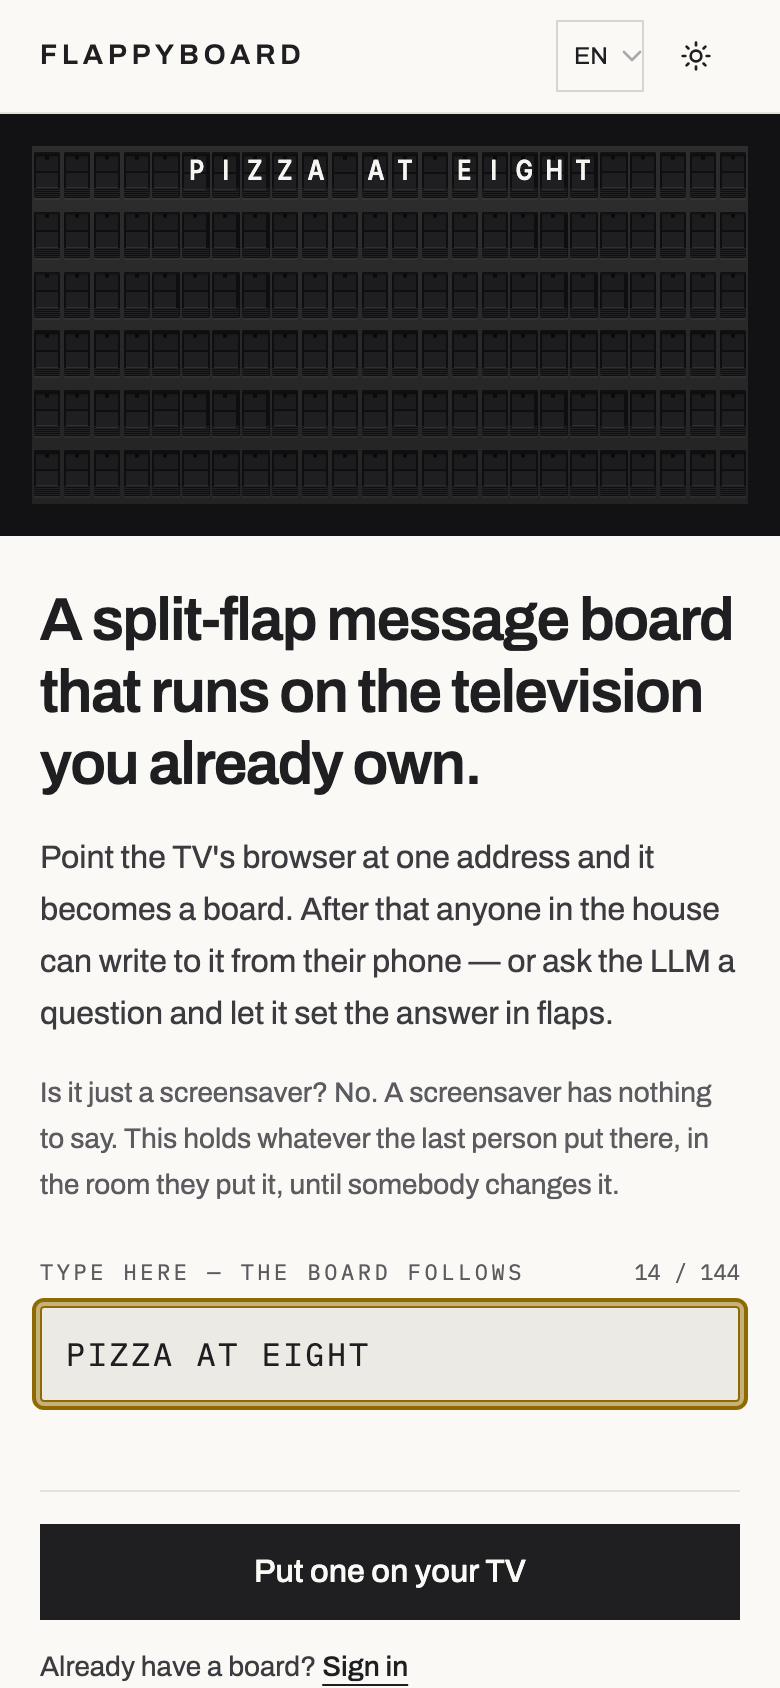
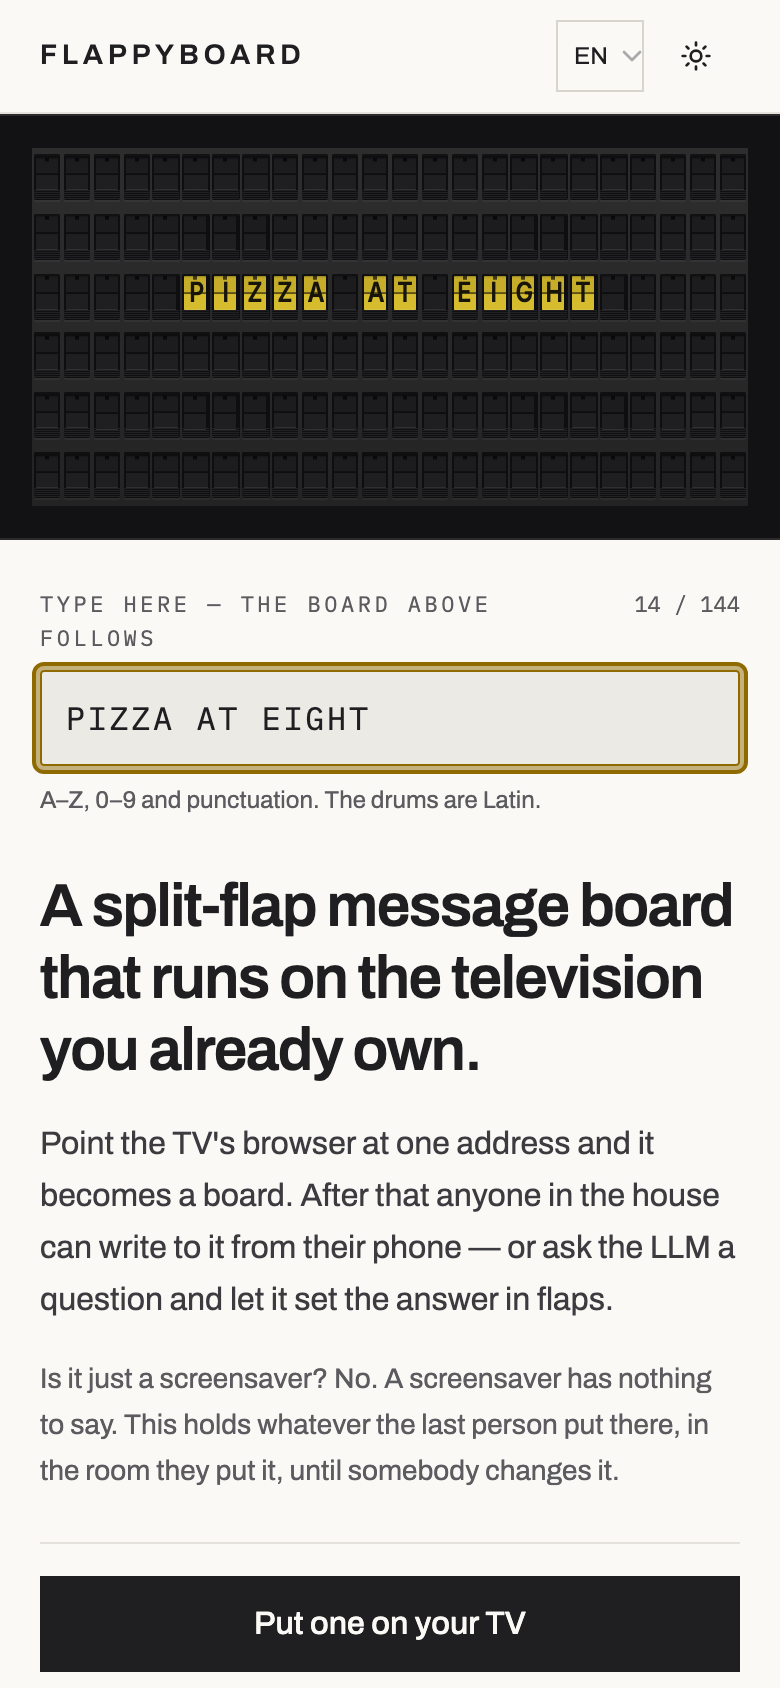
fix(front-door): answer design-critic's five P1s on the landing page
Round 1 returned DO NOT SHIP. All nine anti-slop tells passed — the page
failed because its own structural claim was the worst-executed thing on
it. Measured before and after, live, not inferred from classes.

P1-a  The typed state — the page's entire proof — was its ugliest frame.
      A visitor's line landed pinned to row 0 with five empty rows under
      it (83% dead tiles) in plain white, while the message that invited
      it was centred and lit. It now compiles twice: once to ask how many
      rows the text needs after wrapping, once to pad it to where the
      opening message sat. Painted in the invitation's own yellow — a
      visitor's words should not arrive dimmer than the words that asked
      for them.

P1-b  The control carrying the claim was the least visible thing on the
      fold: 1.42:1 boundary against paper, under WCAG 1.4.11's 3:1 floor,
      and the same defect class as /link's 1.15:1 field in phase 3. A
      faint well above a solid ink button is the email-capture pattern,
      so the page read as a hero with a newsletter box under it.
      Boundary is now --text-body-subtle: 6.32:1 light, 9.05:1 dark.

P1-c  On the primary viewport the board and the field could not be seen
      together — 385px apart, 46% of a 390x844 screen, so with a keyboard
      raised roughly 31pt of board remained. Reading order on a phone is
      now field, prose, CTA: 65px between board and field. The CTA is a
[…]

diff --git a/app/routes/home.tsx b/app/routes/home.tsx
@@ -201,8 +201,15 @@ export default function Home({ loaderData }: Route.ComponentProps) {
             #121214 with no restated hex anywhere. The board brings its own
             painted-metal mask, which lands a step lighter than the room: canvas →
             plate → flap well is the whole elevation story, no shadows.
+
+            `border-y` is not trim. Forcing the band dark is a no-op when the
+            **page** is already dark, so in dark mode the band measured 1.00:1
+            against the canvas — the full-bleed room that gives the object its
+            edge did not weaken, it vanished, and what was left was a grid
+            floating in undifferentiated black (`design-critic` round 1, P1-d).
+            The hairline is the enclosure that survives both themes.
           */}
-          <div className="dark bg-background px-4 py-4 sm:px-8 sm:py-8">
+          <div className="dark border-y border-border bg-background px-4 py-4 sm:px-8 sm:py-8">
             {/*
               The field is 2:1 by construction, so its height is half whatever
               width it is given. `min(100%, 78vh)` is the trade: wide enough that
@@ -222,15 +229,22 @@ export default function Home({ loaderData }: Route.ComponentProps) {
           </div>
 
           {/*
-            One column on a phone, two from `lg` up — and the split is not
-            decoration. Stacked, a laptop puts the text field below the fold, so
-            the page claims you can drive the board and then hides the thing you
-            drive it with. Side by side, the object, the sentence and the field
-            are in one viewport, which is the only arrangement that makes the
-            claim true.
+            Reading order on a phone: **field, then prose, then CTA.** On a
+            laptop: prose left, field and CTA right.
+
+            The phone order is not a preference. Board-then-prose-then-field put
+            385 px between the bottom of the object and the top of the control —
+            46% of a 390 × 844 viewport — so with a keyboard raised, holding the
+            field in view left about 31 pt of board on screen. The page's whole
+            claim is that you drive the board, and the two could not be seen
+            together at the moment you did it (`design-critic` round 1, P1-c).
+
+            The CTA still lands last and `mt-auto` still drops it to the bottom
+            of the first screen, so the primary *action* keeps its thumb position
+            while the *demonstration* moves up under the thing it demonstrates.
           */}
-          <div className="mx-auto flex w-full max-w-5xl flex-1 flex-col gap-6 px-5 pt-6 pb-8 sm:gap-8 sm:px-8 sm:pt-8 sm:pb-10 lg:flex-row lg:items-start lg:gap-14">
-            <div className="flex flex-col gap-4 lg:flex-1">
+          <div className="mx-auto flex w-full max-w-5xl flex-1 flex-col gap-6 px-5 pt-6 pb-8 sm:gap-8 sm:px-8 sm:pt-8 sm:pb-10 lg:grid lg:grid-cols-[1fr_26rem] lg:items-start lg:gap-x-14 lg:gap-y-6">
+            <div className="order-2 flex flex-col gap-4 lg:order-none lg:col-start-1 lg:row-span-2 lg:row-start-1">
               <h1 className="max-w-[22ch] text-3xl font-semibold tracking-tight text-balance text-text-heading sm:text-4xl">
                 {t("lede.title")}
               </h1>
@@ -242,13 +256,8 @@ export default function Home({ loaderData }: Route.ComponentProps) {
               </p>
             </div>
 
-            {/*
-              The controller. On a phone `mt-auto` drops the field and the CTA
-              into the bottom third of the first screen, where a thumb reaches
-              without the hand moving — the owner's standing constraint, which
-              outranks how the whitespace looks.
-            */}
-            <div className="mt-auto flex flex-col gap-4 lg:mt-0 lg:w-[26rem] lg:shrink-0">
+            {/* The controller — directly under the object on a phone. */}
+            <div className="order-1 flex flex-col gap-4 lg:order-none lg:col-start-2 lg:row-start-1">
               <div className="flex flex-col gap-2">
                 <div className="flex items-baseline justify-between gap-4">
                   <label
@@ -257,9 +266,16 @@ export default function Home({ loaderData }: Route.ComponentProps) {
                   >
                     {t("say.label")}
                   </label>
+                  {/*
+                    `shrink-0 whitespace-nowrap`: the counter is three tokens
+                    around a slash and must never be broken across lines. Once
+                    the label grew to name the object ("the board *above*
+                    follows") it wrapped on a phone and took "14 /" with it,
+                    leaving "144" stranded on the next line.
+                  */}
                   <span
                     id="landing-say-count"
-                    className="font-mono text-[11px] tabular-nums text-text-body-subtle"
+                    className="shrink-0 font-mono text-[11px] tabular-nums whitespace-nowrap text-text-body-subtle"
                   >
                     {t("say.counter", { used: typed.used, capacity: BOARD_CAPACITY })}
                   </span>
@@ -273,6 +289,17 @@ export default function Home({ loaderData }: Route.ComponentProps) {
 
                   `rounded-lg` resolves to `--radius` (2 px): the object is 0 px
                   on panels and buttons, 2 px on wells, and this is a well.
+
+                  **The boundary is `--text-body-subtle`, not `--input`.** At
+                  `--input` the well measured 1.14:1 fill and a 1.42:1 edge
+                  against paper — below WCAG 1.4.11's 3:1 floor for a control
+                  boundary, and the same defect class as `/link`'s 1.15:1 field
+                  in phase 3. `design-critic` round 1 (P1-b) put the consequence
+                  plainly: a faint grey well stacked above a solid ink button
+                  *is* the email-capture pattern, so the page read as a
+                  decorative hero with a newsletter box under it. A 6.32:1
+                  hairline is the fix that stays inside the language — the object
+                  draws edges, it does not draw shadows.
                 */}
                 <Input
                   id="landing-say"
@@ -285,18 +312,43 @@ export default function Home({ loaderData }: Route.ComponentProps) {
                   spellCheck={false}
                   aria-describedby="landing-say-count landing-say-hint"
                   data-testid="landing-say-input"
-                  className="h-12 rounded-lg border-input bg-input/40 px-3 font-mono text-base tracking-[0.08em] uppercase shadow-none"
+                  className="h-12 rounded-lg border-text-body-subtle bg-input/40 px-3 font-mono text-base tracking-[0.08em] uppercase shadow-none"
                 />
+                {/*
+                  The charset, said **before** the refusal rather than after it.
+
+                  A Chinese visitor was invited to type by a label and a
+                  placeholder in their own language and learned only on the
+                  rebound that the drums are Latin (`design-critic` round 1,
+                  P1-e). The runtime behaviour was already right — the board
+                  holds its last displayable message and announces why — but
+                  being told after you have been turned down is not the same as
+                  being told. Same voice as the hint: a property of the object,
+                  never an apology for it.
+
+                  It swaps out while a hint is showing, so the two never stack
+                  and the layout never jumps.
+                */}
                 <p
                   id="landing-say-hint"
                   aria-live="polite"
                   className="min-h-5 max-w-[60ch] text-xs leading-relaxed text-text-body-subtle"
                   data-testid="landing-say-hint"
                 >
-                  {hint}
+                  {hint || t("say.note")}
                 </p>
               </div>
 
+            </div>
+
+            {/*
+              `mt-auto` keeps the primary action in the bottom third of the first
+              screen on a phone, where a thumb reaches without the hand moving —
+              the owner's standing constraint, which outranks how the whitespace
+              looks. It is a separate element from the field precisely so the
+              field can move up under the board without dragging the CTA with it.
+            */}
+            <div className="order-3 mt-auto lg:order-none lg:col-start-2 lg:row-start-2 lg:mt-0">
               <div className="flex flex-col gap-2 border-t border-border pt-4 sm:flex-row sm:items-center sm:gap-6 sm:pt-5 lg:flex-col lg:items-start lg:gap-2">
                 <Button
                   asChild
@@ -335,18 +387,30 @@ export default function Home({ loaderData }: Route.ComponentProps) {
             <p className="max-w-[58ch] text-base leading-relaxed text-text-body">
               {t("tv.body")}
             </p>
-            <div className="mt-8 flex items-start gap-3">
-              {/*
-                The pilot lamp, and the only place `--signal` is spent on this
-                page. It carries no meaning colour alone has to hold: the label
-                beside it says what the address is for, and the lamp is hidden
-                from the accessibility tree rather than announced as decoration.
-              */}
-              <span
-                aria-hidden
-                className="mt-1.5 size-2.5 shrink-0 rounded-lg bg-signal"
-              />
-              <div className="flex min-w-0 flex-col gap-1.5">
+            {/*
+              There was a pilot lamp here — a 10 px `--signal` square before the
+              label — and it is gone on purpose.
+
+              `--signal` is two-valued: the real lamp amber in dark, and a
+              darkened #8f6a00 in light so the app-wide focus ring clears 4.5:1
+              on paper. That is the right call for a ring and the wrong one for a
+              lamp: at lightness 28% next to the board's own 51% yellow four
+              hundred pixels above, the page carried two unrelated yellows and
+              the "lit" instruction read as a bullet (`design-critic` round 1,
+              P2-a). A decorative dot that reads as a bullet is worse than no
+              dot, and the token's *value* is not negotiable — the ring depends
+              on it. So the mono label does the work instead.
+            */}
+            {/*
+              Full width, not a content-sized flex child. With the lamp gone
+              this is a single block, and the old `min-w-0` column sized itself
+              to its own text — so a real deployed host laid out at 864 px
+              inside a 306 px column and `break-all` never got the chance to
+              act. Proven by substituting a workers.dev hostname into the live
+              DOM; `localhost:5251/tv` is 17 characters and hides it.
+            */}
+            <div className="mt-8 w-full max-w-[58ch]">
+              <div className="flex w-full min-w-0 flex-col gap-1.5">
                 <span className="font-mono text-[11px] tracking-[0.16em] text-text-body-subtle uppercase">
                   {t("tv.label")}
                 </span>
@@ -376,9 +440,19 @@ export default function Home({ loaderData }: Route.ComponentProps) {
               <tbody>
                 {SPEC_ROWS.map((key) => (
                   <tr key={key} className="border-t border-border align-top">
+                    {/*
+                      `font-mono` on the label column, not just the values. The
+                      EP-133 borrow is carried by the *texture* of letterspaced
+                      mono caps; in the proportional face the column read as
+                      ordinary small text the moment the copy stopped being
+                      Latin (`design-critic` round 1, P2-d). Mono holds the
+                      register in English and gives the CJK labels a consistent
+                      rhythm that tracking alone cannot — CJK ignores
+                      letterspacing and has no case to raise.
+                    */}
                     <th
                       scope="row"
-                      className="w-[38%] py-3 pr-4 text-[11px] font-medium tracking-[0.14em] text-text-body-subtle uppercase sm:w-64"
+                      className="w-[38%] py-3 pr-4 font-mono text-[11px] font-medium tracking-[0.14em] text-text-body-subtle uppercase sm:w-64"
                     >
                       {t(`specs.rows.${key}.label`)}
                     </th>

diff --git a/app/lib/board/landing-board.ts b/app/lib/board/landing-board.ts
@@ -44,14 +44,26 @@ const OPENING_LINES: ReadonlyArray<readonly [text: string, color: BoardColor]> =
     ["GO ON. YOU DRIVE IT.", "white"],
   ];
 
+/**
+ * What a visitor's own line is painted in.
+ *
+ * The same yellow the invitation used, and that is the point: `design-critic`
+ * round 1 found the typed state arriving in plain white while the message that
+ * asked for it was lit, so the visitor's words rendered *dimmer* than the
+ * product's own. On the real object a writer picks the colour; here the board
+ * lights their line for them.
+ */
+const TYPED_COLOR: BoardColor = "yellow";
+
+/** A row of the message, not of the grid — the compiler turns one into the other. */
+const say = (text: string, color: BoardColor) => ({
+  align: "center" as const,
+  segments: [{ text, color }],
+});
+
 const centered = (
   lines: ReadonlyArray<readonly [string, BoardColor]>
-): BoardMessage => ({
-  rows: lines.map(([text, color]) => ({
-    align: "center" as const,
-    segments: [{ text, color }],
-  })),
-});
+): BoardMessage => ({ rows: lines.map(([text, color]) => say(text, color)) });
 
 /**
  * Module-level constants, not factories: the animator compares grid **identity**
@@ -82,6 +94,10 @@ export interface TypedBoard {
   readonly used: number;
 }
 
+/** How many grid rows a compiled message actually puts glyphs on. */
+const litRows = (grid: BoardGrid): number =>
+  grid.rows.filter((row) => row.some((cell) => cell.char !== " ")).length;
+
 /**
  * The typed text, as the board would show it.
  *
@@ -99,8 +115,33 @@ export const typedBoard = (text: string): TypedBoard => {
     return { grid: null, note: "nothing", used: 0 };
   }
 
+  /*
+    Compiled twice, on purpose, and the second pass is the whole point.
+
+    A single message row lands on grid row 0, so a visitor's line sat pinned to
+    the top of the object with five empty rows under it — 83% dead tiles —
+    while the opening message it replaced was a composed, vertically centred
+    statement. `design-critic` round 1 (P1-a) called that what it is: the one
+    state that exists to prove "you drive it" rendered as a *downgrade* from the
+    state before the visitor touched anything.
+
+    The first pass only asks how many rows the text needs after wrapping; the
+    second pads it with that many blank rows above so it lands where the opening
+    message sat. There is no cheaper way to ask — wrapping is `compile.ts`'s
+    business, and re-deriving it here would be a second, quietly diverging
+    implementation of the invariant this module exists to avoid.
+
+    It is painted in the same yellow the invitation used. A visitor's own words
+    should not arrive dimmer than the words that asked for them.
+  */
+  const measured = compileMessage({ rows: [say(text, TYPED_COLOR)] });
+  const lead = Math.max(0, Math.floor((BOARD_ROWS - litRows(measured.grid)) / 2));
+
   const compiled = compileMessage({
-    rows: [{ align: "center", segments: [{ text, color: "white" }] }],
+    rows: [
+      ...Array.from({ length: lead }, () => say("", TYPED_COLOR)),
+      say(text, TYPED_COLOR),
+    ],
   });
 
   const note: BoardNote =

diff --git a/app/lib/board/__tests__/landing-board.test.ts b/app/lib/board/__tests__/landing-board.test.ts
@@ -113,3 +113,64 @@ describe("what a visitor types", () => {
     expect(typedBoard("a".repeat(500)).used).toBe(BOARD_CAPACITY);
   });
 });
+
+/**
+ * The typed state is the page's whole proof — "you drive the board before you
+ * sign up" — and `design-critic` round 1 found it rendering as a *downgrade*
+ * from the untouched state: one white line pinned to row 0 with five empty rows
+ * beneath it, while the message that invited it was centred and lit.
+ *
+ * Nothing in the suite caught that, because nothing asserted where on the object
+ * a line lands or what colour it arrives in. These do.
+ */
+describe("where a typed line lands on the object", () => {
+  /** The indices of grid rows carrying at least one glyph. */
+  const litRows = (grid: { rows: ReadonlyArray<ReadonlyArray<{ char: string }>> }) =>
+    grid.rows.flatMap((row, i) => (row.some((c) => c.char !== " ") ? [i] : []));
+
+  it("centres a one-line message instead of pinning it to the top", () => {
+    const { grid } = typedBoard("DINNER AT EIGHT");
+    expect(grid).not.toBeNull();
+    // Six rows, one lit: the only vertically centred choices are 2 and 3.
+    expect(litRows(grid!)).toEqual([2]);
+  });
+
+  it("keeps a wrapped message centred as one block", () => {
+    // Longer than 24 columns, so the compiler wraps it across several rows.
+    const { grid } = typedBoard(
+      "THE BINS GO OUT ON TUESDAY NIGHT WITHOUT FAIL"
+    );
+    expect(grid).not.toBeNull();
+    const lit = litRows(grid!);
+
+    expect(lit.length).toBeGreaterThan(1);
+    // Contiguous — the padding goes above the block, never through it.
+    expect(lit).toEqual(
+      Array.from({ length: lit.length }, (_, i) => lit[0]! + i)
+    );
+    // Balanced: blank rows above and below differ by at most one.
+    const above = lit[0]!;
+    const below = BOARD_ROWS - 1 - lit[lit.length - 1]!;
+    expect(Math.abs(above - below)).toBeLessThanOrEqual(1);
+  });
+
+  it("lights the visitor's own words rather than leaving them plain", () => {
+    const { grid } = typedBoard("HELLO");
+    const painted = new Set(
+      grid!.rows.flatMap((row) =>
+        row.filter((cell) => cell.char !== " ").map((cell) => cell.color)
+      )
+    );
+    expect(painted).toEqual(new Set(["yellow"]));
+  });
+
+  it("never pushes text off the bottom to make room for the padding", () => {
+    // Six rows' worth: the centring must collapse to zero lead, not truncate.
+    const full = Array.from({ length: BOARD_ROWS }, () => "X".repeat(BOARD_COLS)).join(
+      " "
+    );
+    const { grid, note } = typedBoard(full);
+    expect(note).not.toBe("full");
+    expect(litRows(grid!)).toHaveLength(BOARD_ROWS);
+  });
+});
